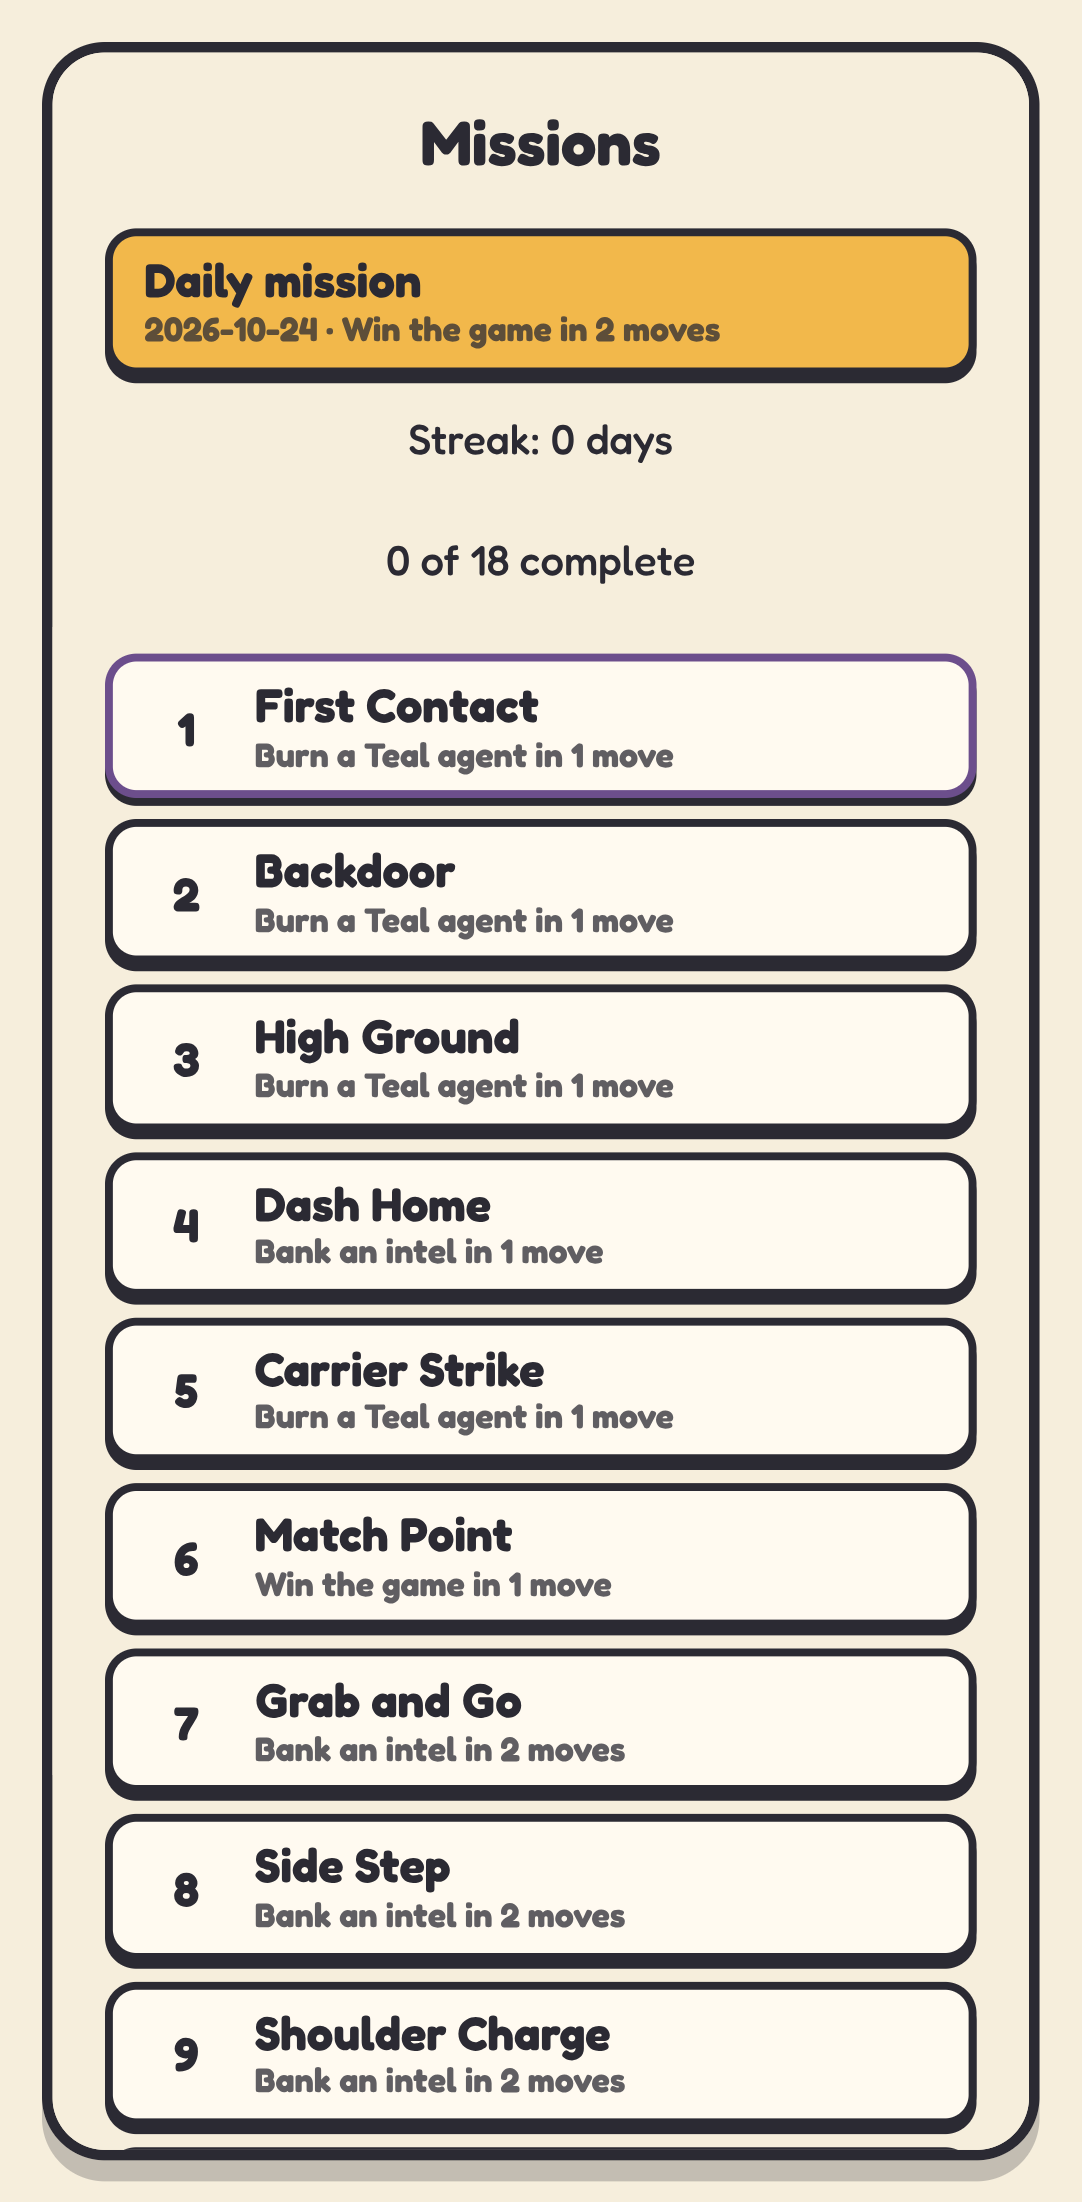
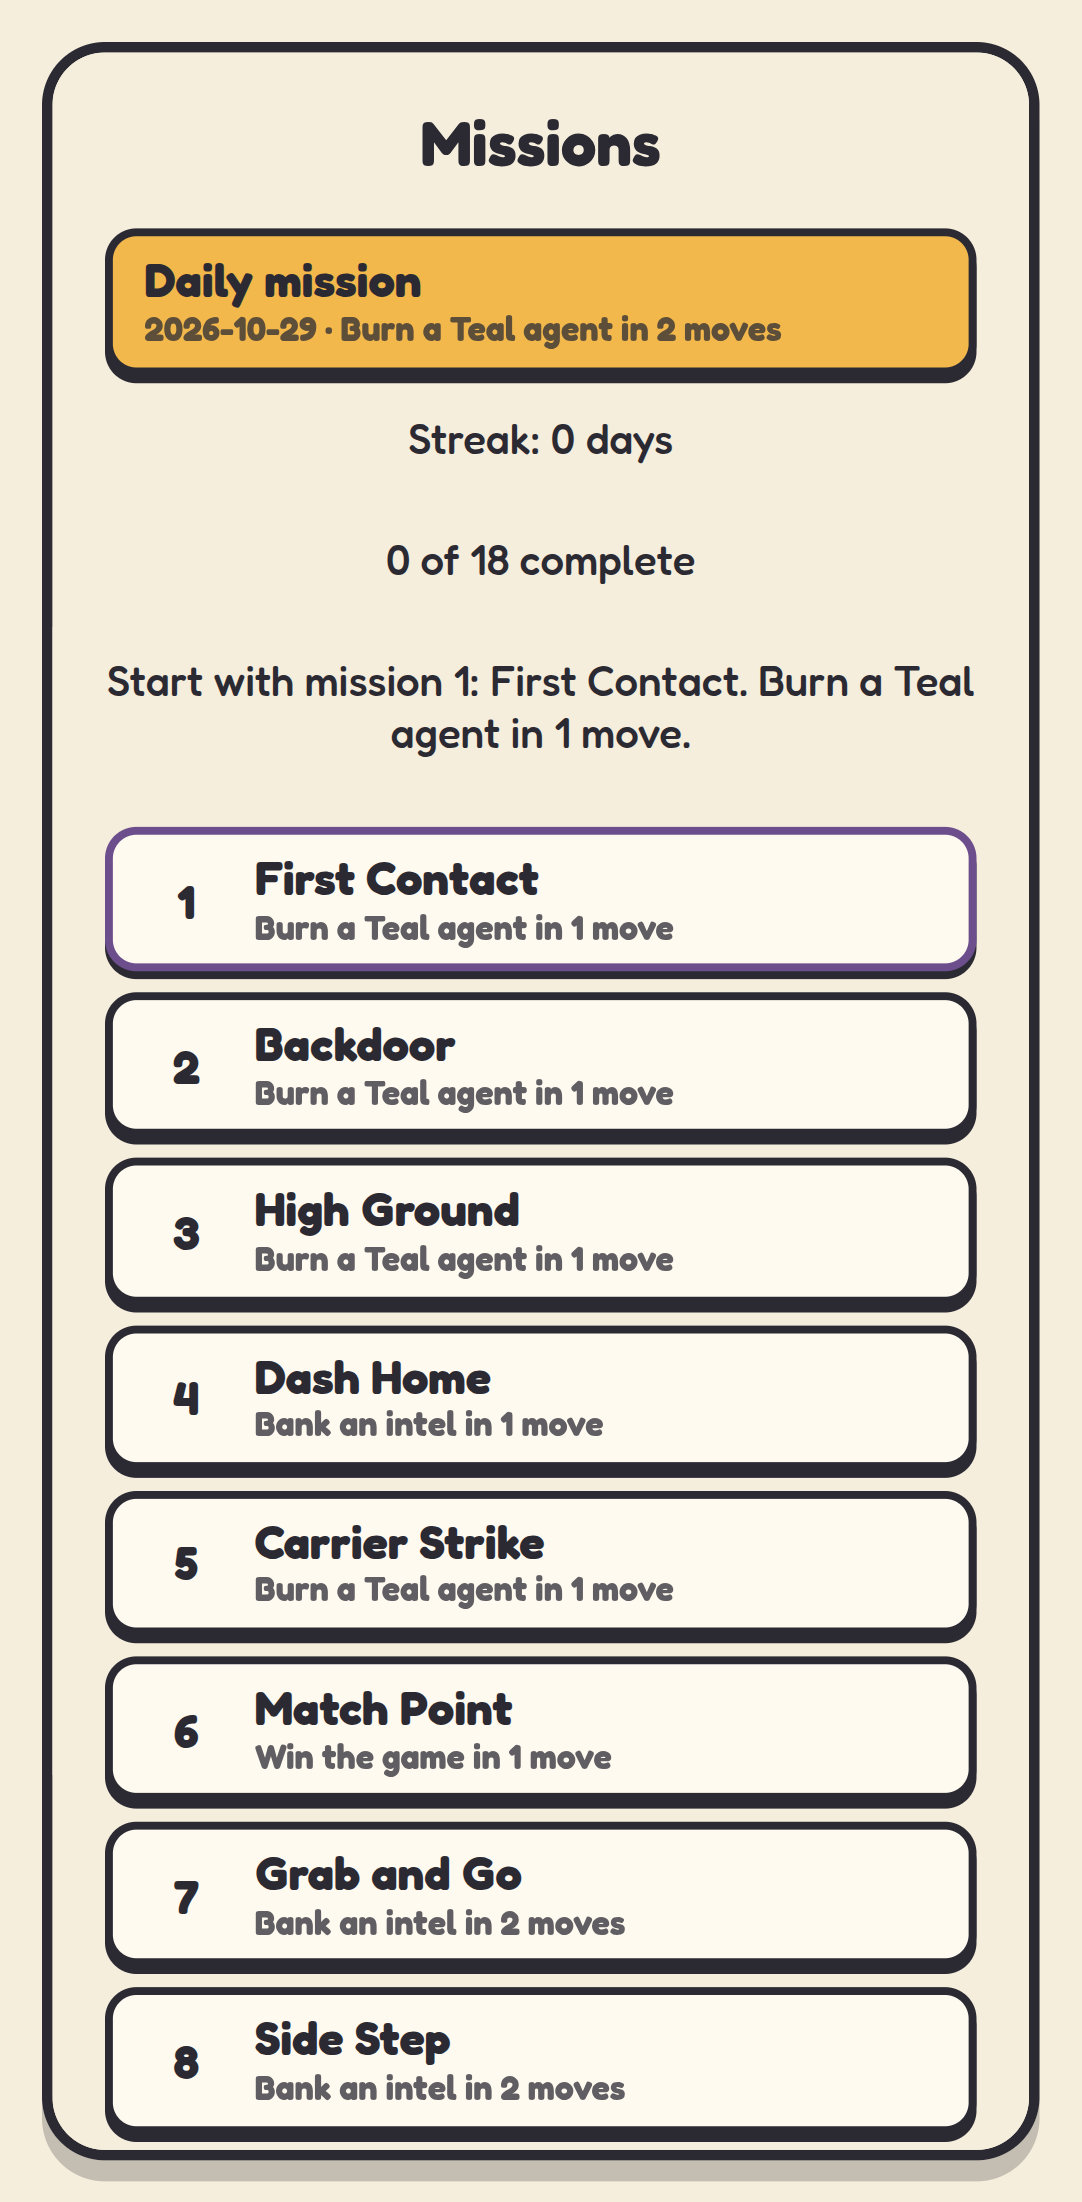
Mission list: point a fresh profile at mission 1 (#35)

diff --git a/src/ui/missions.ts b/src/ui/missions.ts
@@ -1,5 +1,13 @@
 import { dailyMission, isDayKey, streak } from '../daily';
-import { MISSIONS, bestText, goalText, progressText, solvedText, type Mission } from '../missions';
+import {
+  MISSIONS,
+  bestText,
+  firstHintText,
+  goalText,
+  progressText,
+  solvedText,
+  type Mission,
+} from '../missions';
 import { shareMission, type ShareResult } from '../share';
 import { load, save } from './storage';
 
@@ -84,6 +92,7 @@ export function showMissions(
   const dailyDone = days.includes(today);
   const run = streak(days, today);
   const next = nextUp(done);
+  const firstHint = firstHintText(done.size, MISSIONS[0]);
   const wrap = document.createElement('div');
   wrap.className = 'overlay menu-overlay';
   wrap.id = 'missions';
@@ -95,6 +104,7 @@ export function showMissions(
     </button>
     <p class="sub" data-testid="daily-streak">Streak: ${run} day${run === 1 ? '' : 's'}</p>
     <p class="sub" data-testid="missions-progress">${progressText(done.size, MISSIONS.length)}</p>
+    ${firstHint ? `<p class="sub" data-testid="first-hint">${esc(firstHint)}</p>` : ''}
     <ol class="mission-list">
       ${MISSIONS.map(
         (

diff --git a/e2e/nextup.spec.ts b/e2e/nextup.spec.ts
@@ -28,6 +28,20 @@ test('a fresh list highlights nothing special: no "Next up" tag, first mission i
   await expect(page.locator('.mission-btn.next')).toHaveAttribute('data-mission', MISSIONS[0]!.id);
 });
 
+test('a fresh profile is pointed at mission 1 at 360px', async ({ page }) => {
+  await page.setViewportSize({ width: 360, height: 740 });
+  await openList(page);
+  const hint = page.locator('[data-testid="first-hint"]');
+  await expect(hint).toContainText(`Start with mission 1: ${MISSIONS[0]!.title}`);
+  await expect(hint).toBeInViewport();
+});
+
+test('the first-mission hint is gone once any mission is complete', async ({ page }) => {
+  await seed(page, [MISSIONS[0]!.id]);
+  await openList(page);
+  await expect(page.locator('[data-testid="first-hint"]')).toHaveCount(0);
+});
+
 test('with progress, the list opens at the next mission, which is tagged and on screen', async ({
   page,
 }, info) => {

diff --git a/src/missions.test.ts b/src/missions.test.ts
@@ -6,6 +6,7 @@ import { decode, encode } from './engine/serialize';
 import {
   MISSIONS,
   bestText,
+  firstHintText,
   progressText,
   goalText,
   isNewBest,
@@ -39,6 +40,17 @@ describe('solvedText (the result card line for a won mission)', () => {
     expect(solvedText(1, 1)).toBe('Solved in 1 of 1 move.');
     expect(solvedText(1, 2)).toBe('Solved in 1 of 2 moves.');
     expect(solvedText(3, 3)).toBe('Solved in 3 of 3 moves.');
+  });
+});
+
+describe('firstHintText (fresh-profile pointer to mission 1)', () => {
+  const first = MISSIONS[0]!;
+  it('points at mission 1 only while nothing is complete', () => {
+    expect(firstHintText(0, first)).toBe(
+      `Start with mission 1: ${first.title}. ${goalText(first)}.`,
+    );
+    expect(firstHintText(1, first)).toBe('');
+    expect(firstHintText(0, undefined)).toBe('');
   });
 });
 

diff --git a/src/missions.ts b/src/missions.ts
@@ -192,6 +192,14 @@ export const bestText = (best: number, budget: number): string =>
 export const pillText = (m: Pick<Mission, 'goal'>, left: number): string =>
   `${GOAL_TEXT[m.goal]} · ${left} move${left === 1 ? '' : 's'} left`;
 
+/** Fresh-profile hint pointing at the first mission; empty once any mission is complete (hidden). */
+export function firstHintText(
+  done: number,
+  first: Pick<Mission, 'title' | 'goal' | 'moves'> | undefined,
+): string {
+  return done === 0 && first ? `Start with mission 1: ${first.title}. ${goalText(first)}.` : '';
+}
+
 /** Mission list progress line; the full set gets a clear finish note. */
 export function progressText(done: number, total: number): string {
   return done >= total && total > 0
